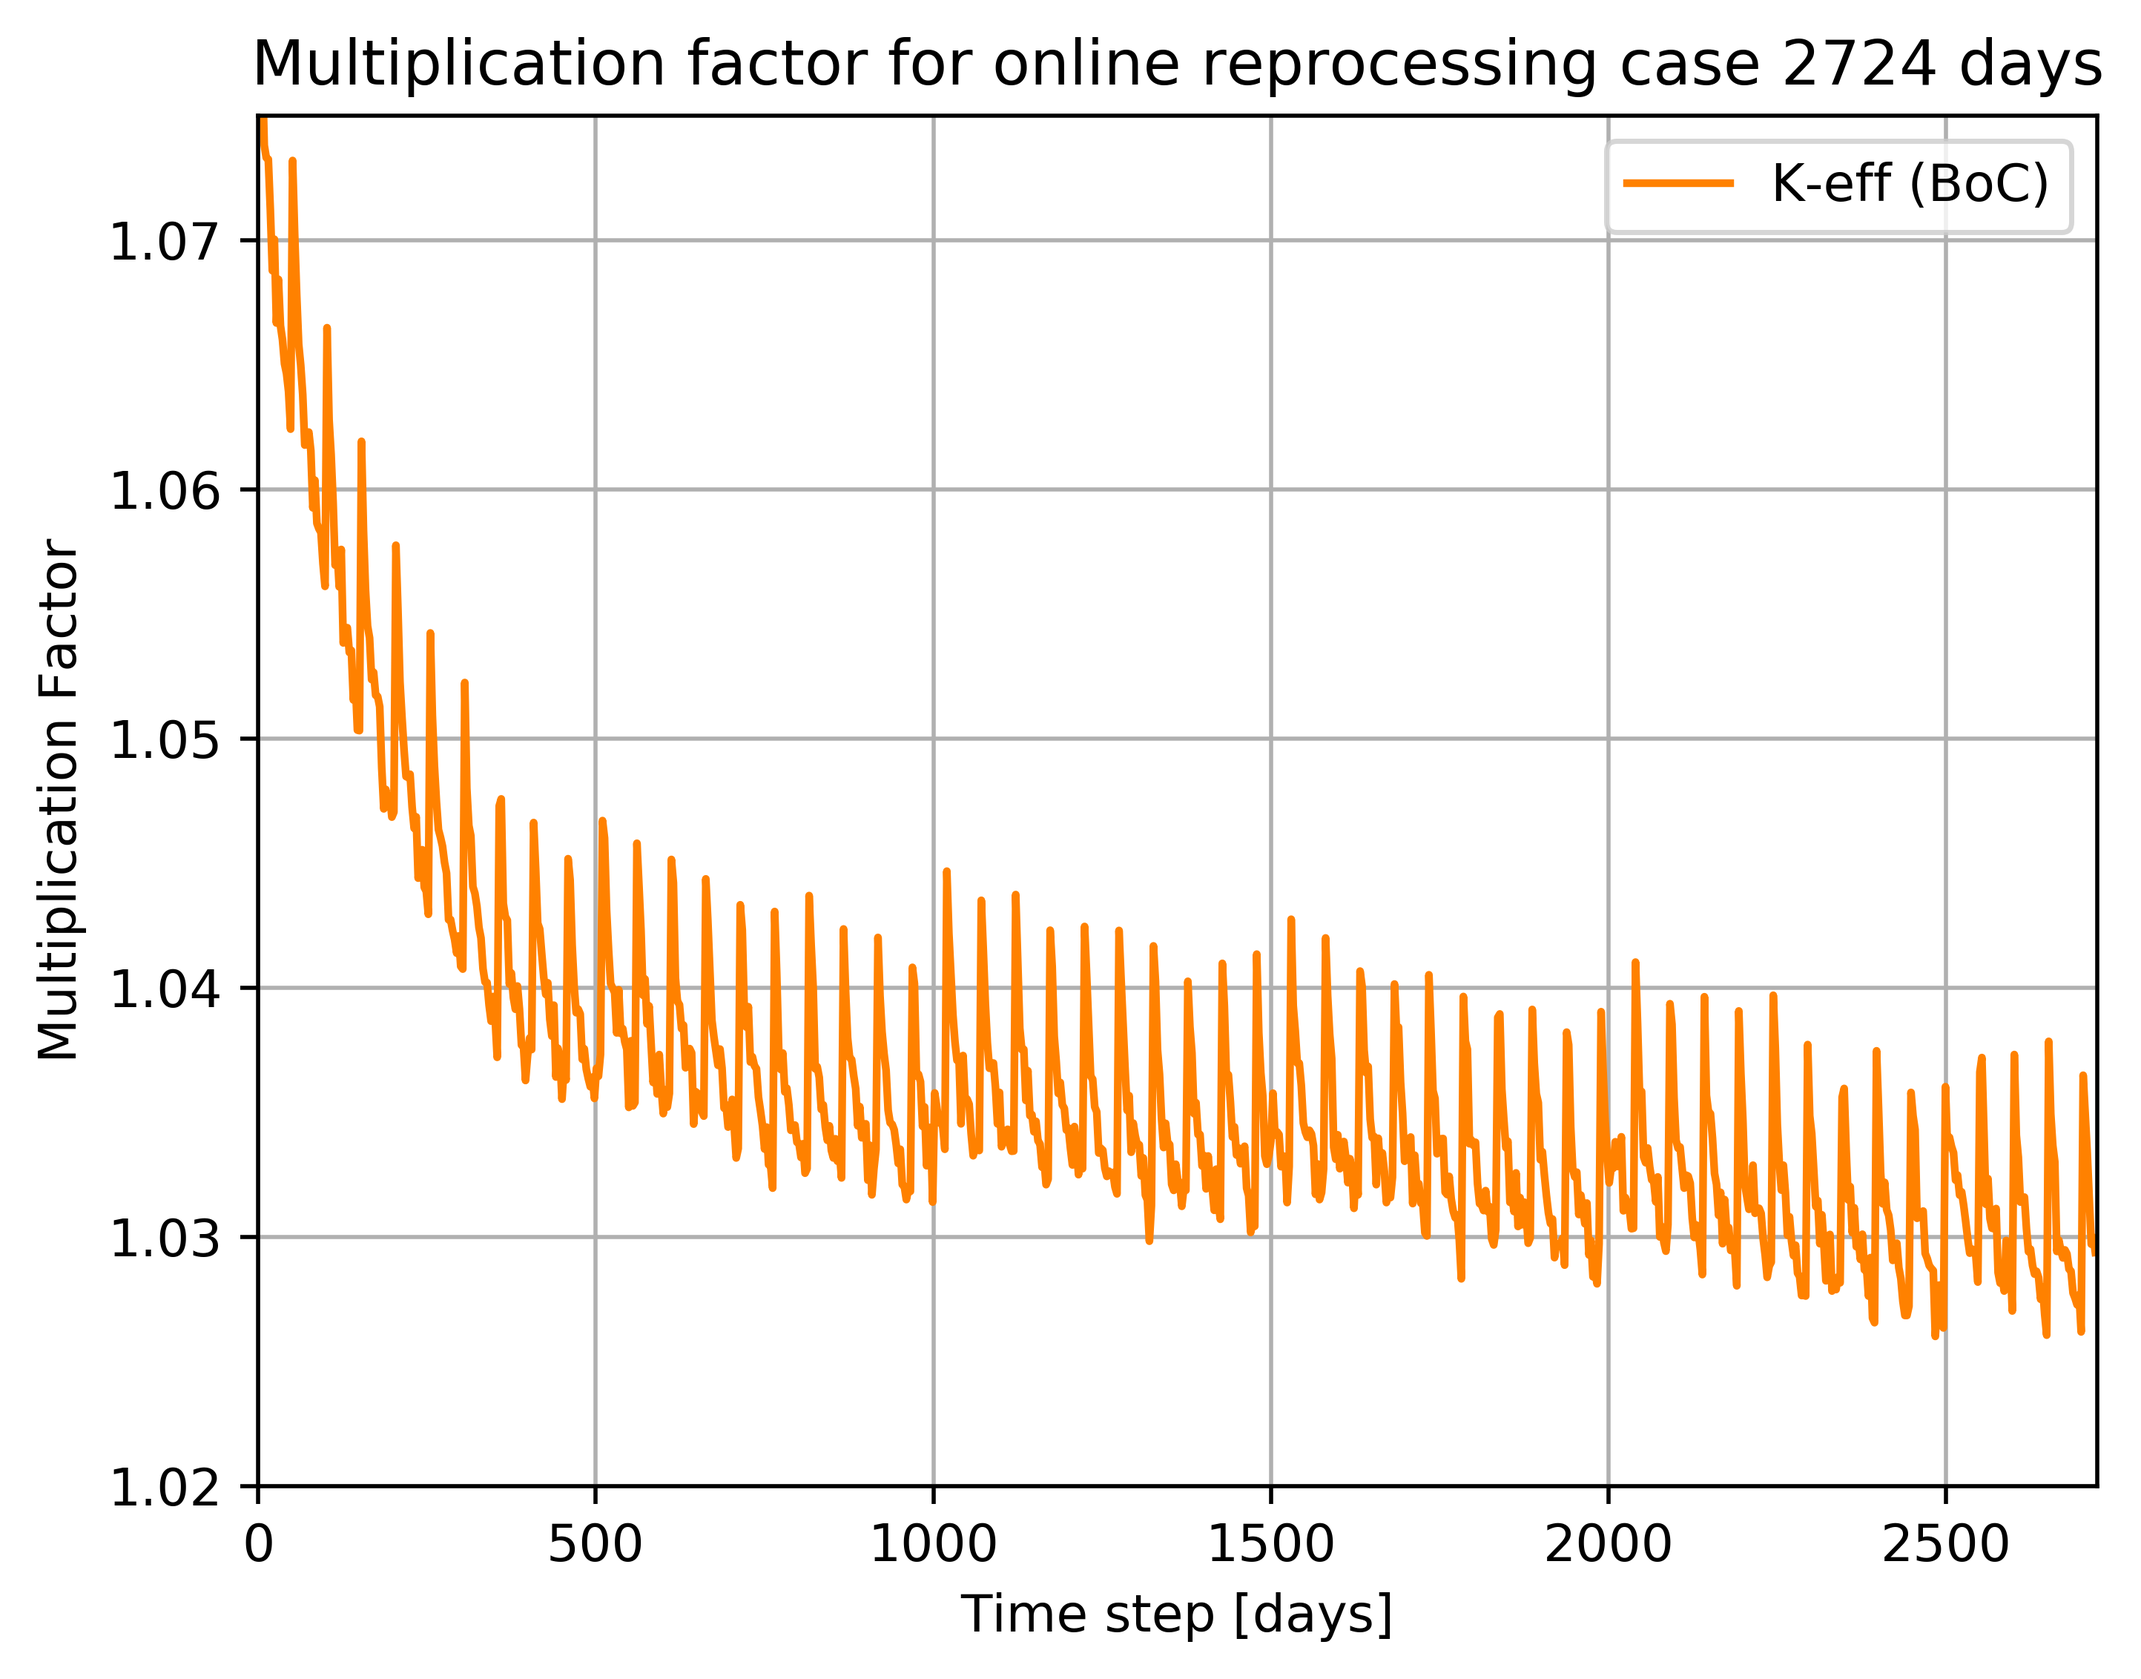
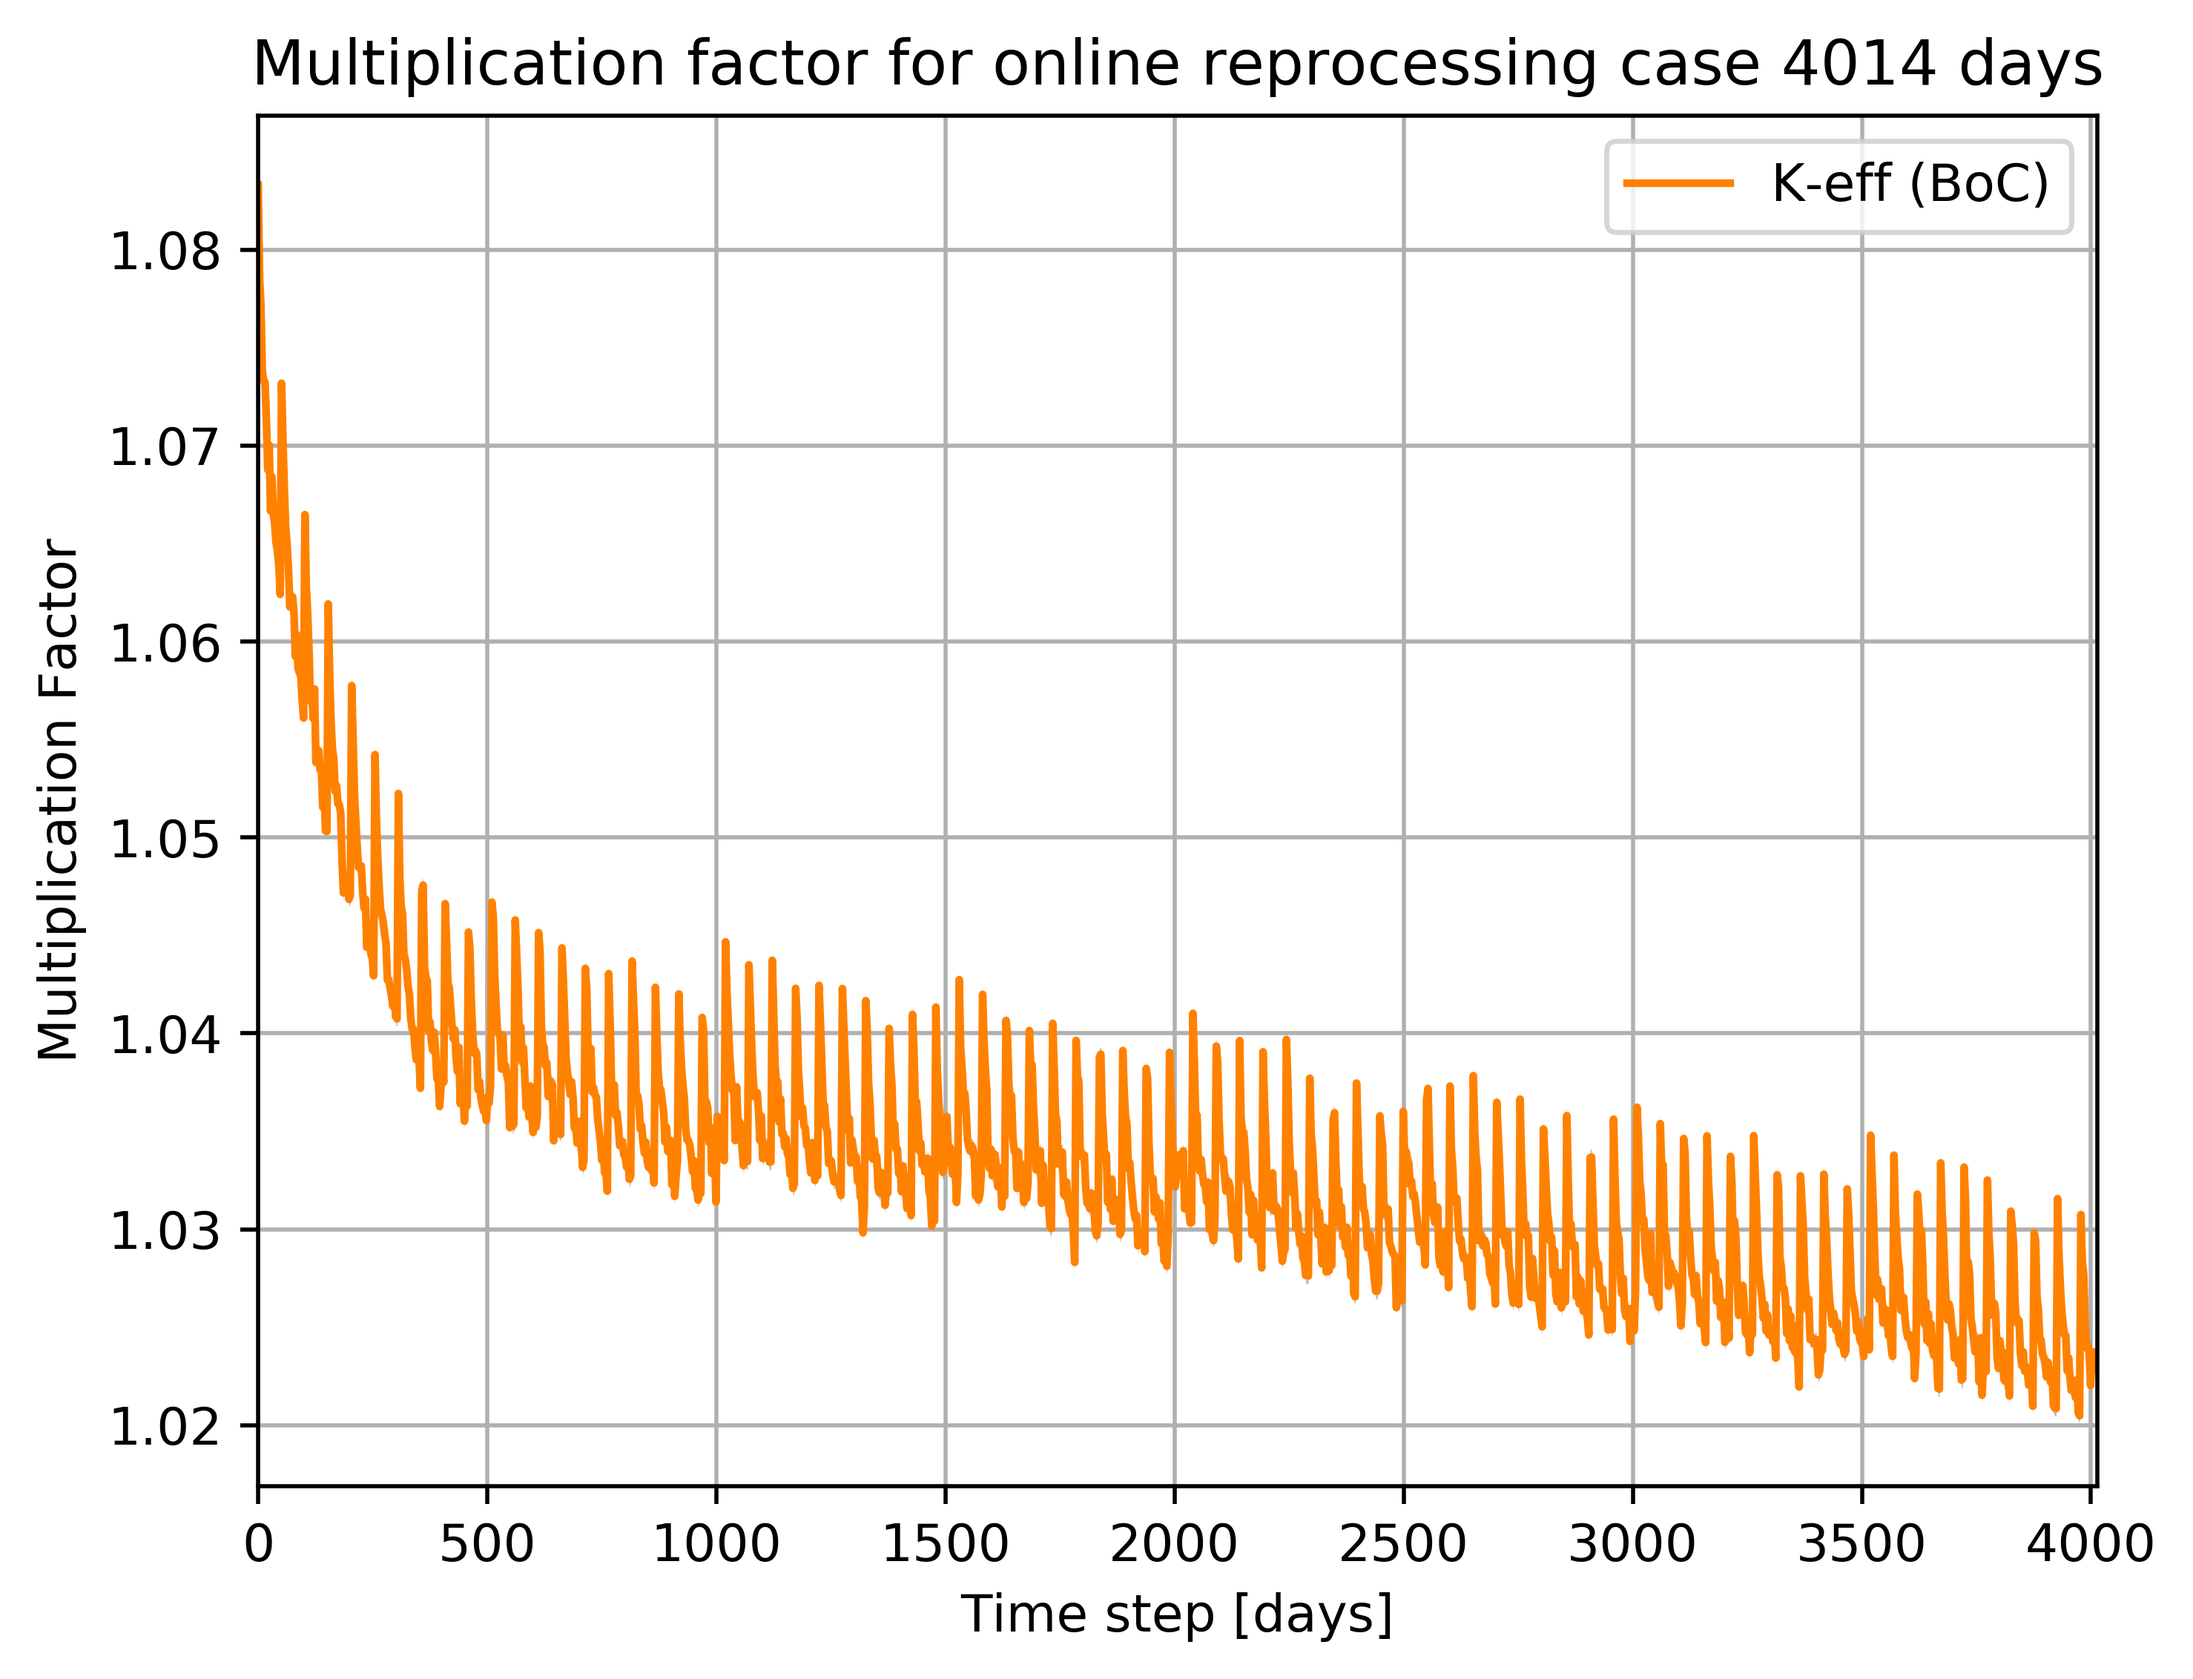
Higher nuclides removal every 16 years added

diff --git a/saltproc/saltproc.py b/saltproc/saltproc.py
@@ -25,9 +25,9 @@ bw = 'False'                       # Not cluster by default
 steps = 5                          # 5 fuel cycle steps by default
 # Isotopes description
 # ID of isotope for which we want to keep constant adens (Pa-233, 232,234,235)
-pa_id = np.array([1088])
+pa_id = np.array([1088])                # ID for Pa-233 (91)
 th232_id = np.array([1080])             # IDs for Th-232 (90)
-u233_id = np.array([1095])             # ID for U-233 (92)
+u233_id = np.array([1095])              # ID for U-233 (92)
 pa233_id = np.array([1088])             # ID for Pa-233 (91)
 # Volatile gases, interval 20 sec
 kr_id = np.arange(217, 240)           # IDs for all isotopes of Kr(36)
@@ -53,6 +53,15 @@ gd_id = np.arange(934, 949)           # IDs for Gd(64)
 rees_id = np.hstack((y_id, rees_1_id, gd_id))
 # Eu(63)
 eu_id = np.arange(916, 934)
+# Discard, 3435 days
+rb_sr_id = np.arange(240, 283)        # Rb(37) and Sr(38) vector
+cs_ba_id = np.arange(746, 793)        # Cs(55) and Ba(56) vector
+# Stack discard
+discard_id = np.hstack((rb_sr_id, cs_ba_id))
+# Higher nuclides (Np-237 and Pu-242), interval 16 years (5840 days)
+np_id    = np.array ([1109])         # 237Np93
+pu_id    = np.array ([1123])         # 242Pu94
+higher_nuc = np.hstack((np_id, pu_id))
 
 # Parse flags
 parser = argparse.ArgumentParser()
@@ -168,9 +177,9 @@ def run_serpent(input_filename, cores):
             str(nodes),
             "-d",
             str(32),
-            "/projects/sciteam/bahg/serpent/src/sss2",
+            "/projects/sciteam/bahg/serpent30/src/sss2",
             "-omp",
-            str(cores),
+            str(32),
             input_filename)
     else:
         args = (
@@ -363,6 +372,12 @@ def main():
         # Remove Eu every 500days~501days=167steps
         bu_adens_arr, rem_adens[4, ] = pa_remove(np.hstack(
             (eu_id)), 1, bu_adens_arr, i, 167)  # Every 167steps=501days
+        # Remove Rb, Sr, Cs, Ba every 3435 days= 1145 steps
+        bu_adens_arr, rem_adens[4, ] = pa_remove(np.hstack(
+            (discard_id)), 1, bu_adens_arr, i, 1145)  # Every 1145 steps
+        # Remove Np-237 and Pu-242 every 16 years = 5840 days= 1946 steps                                                              
+        bu_adens_arr, rem_adens[4, ] = pa_remove(np.hstack(
+            (higher_nuc)), 1, bu_adens_arr, i, 1946)
         # Refill Th-232 to keep ADENS const
         # Store rate of removal of Th-232[barn/cm3] and keep it adens in the
         # core constant
